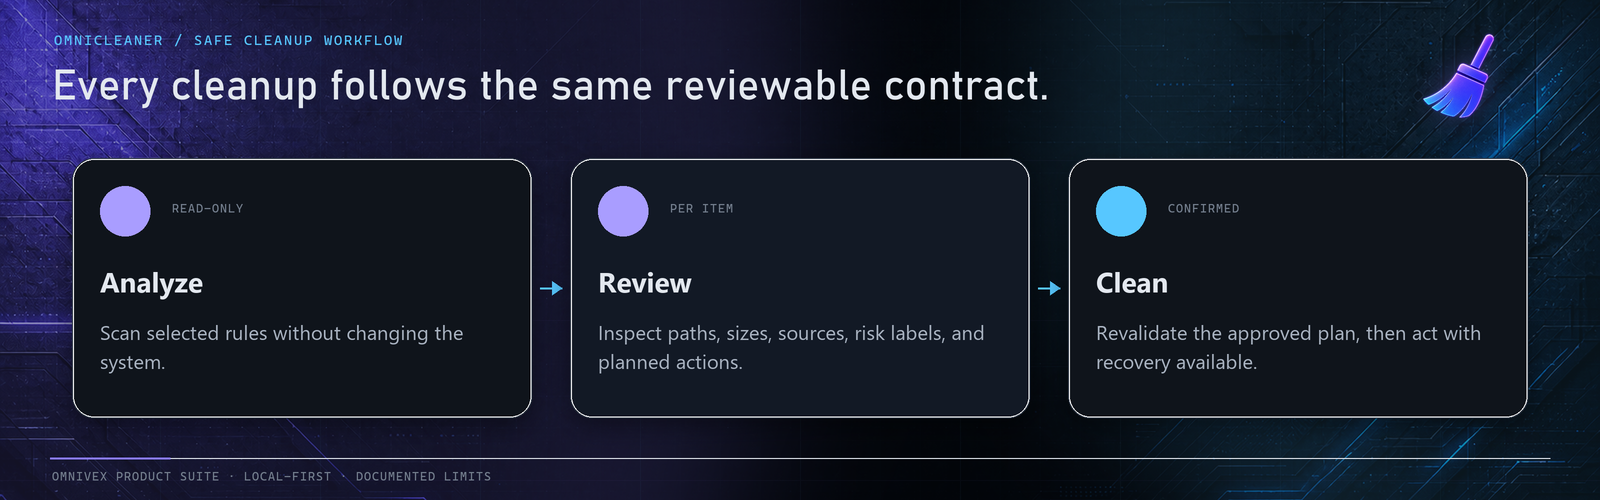
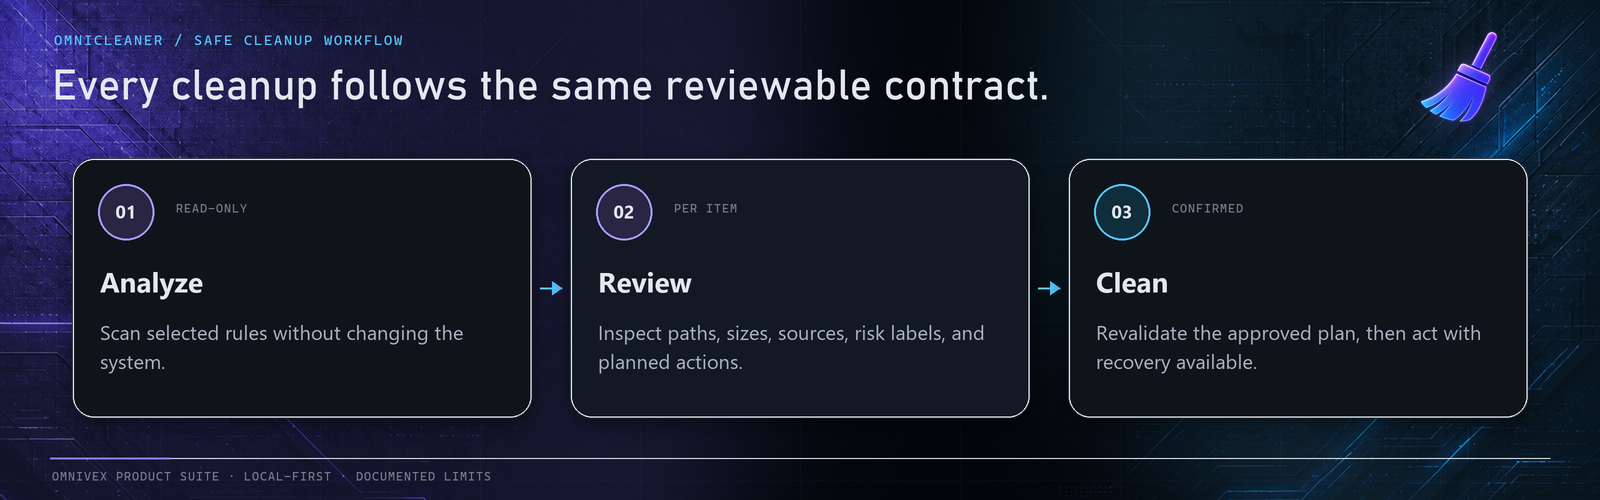
fix: refresh presentation symbols and step numbers (#18)

diff --git a/README.md b/README.md
@@ -64,7 +64,7 @@ OmniCleaner brings modern Windows cleanup, storage intelligence, file discovery,
 ## Everything in one clear workspace
 
 <p align="center">
-  <img src="assets/presentation/capabilities.png?v=20260823-visible-numbers-v3" alt="OmniCleaner capability map covering preview-first analysis, item-level explanations, recovery, and Windows maintenance coverage" width="100%">
+  <img src="assets/presentation/capabilities.png?v=20260825-symbol-number-v4" alt="OmniCleaner capability map covering preview-first analysis, item-level explanations, recovery, and Windows maintenance coverage" width="100%">
 </p>
 
 ### Cleanup & privacy
@@ -148,7 +148,7 @@ For the long-form inventory, see [Features](FEATURES.md) and [Coverage & improve
 ## Safety is the feature
 
 <p align="center">
-  <img src="assets/presentation/workflow.png" alt="OmniCleaner safe cleanup workflow: Analyze, Review, then Clean the confirmed plan" width="100%">
+  <img src="assets/presentation/workflow.png?v=20260825-symbol-number-v4" alt="OmniCleaner safe cleanup workflow: Analyze, Review, then Clean the confirmed plan" width="100%">
 </p>
 
 OmniCleaner’s execution model is designed to make stale assumptions and accidental deletion harder:
